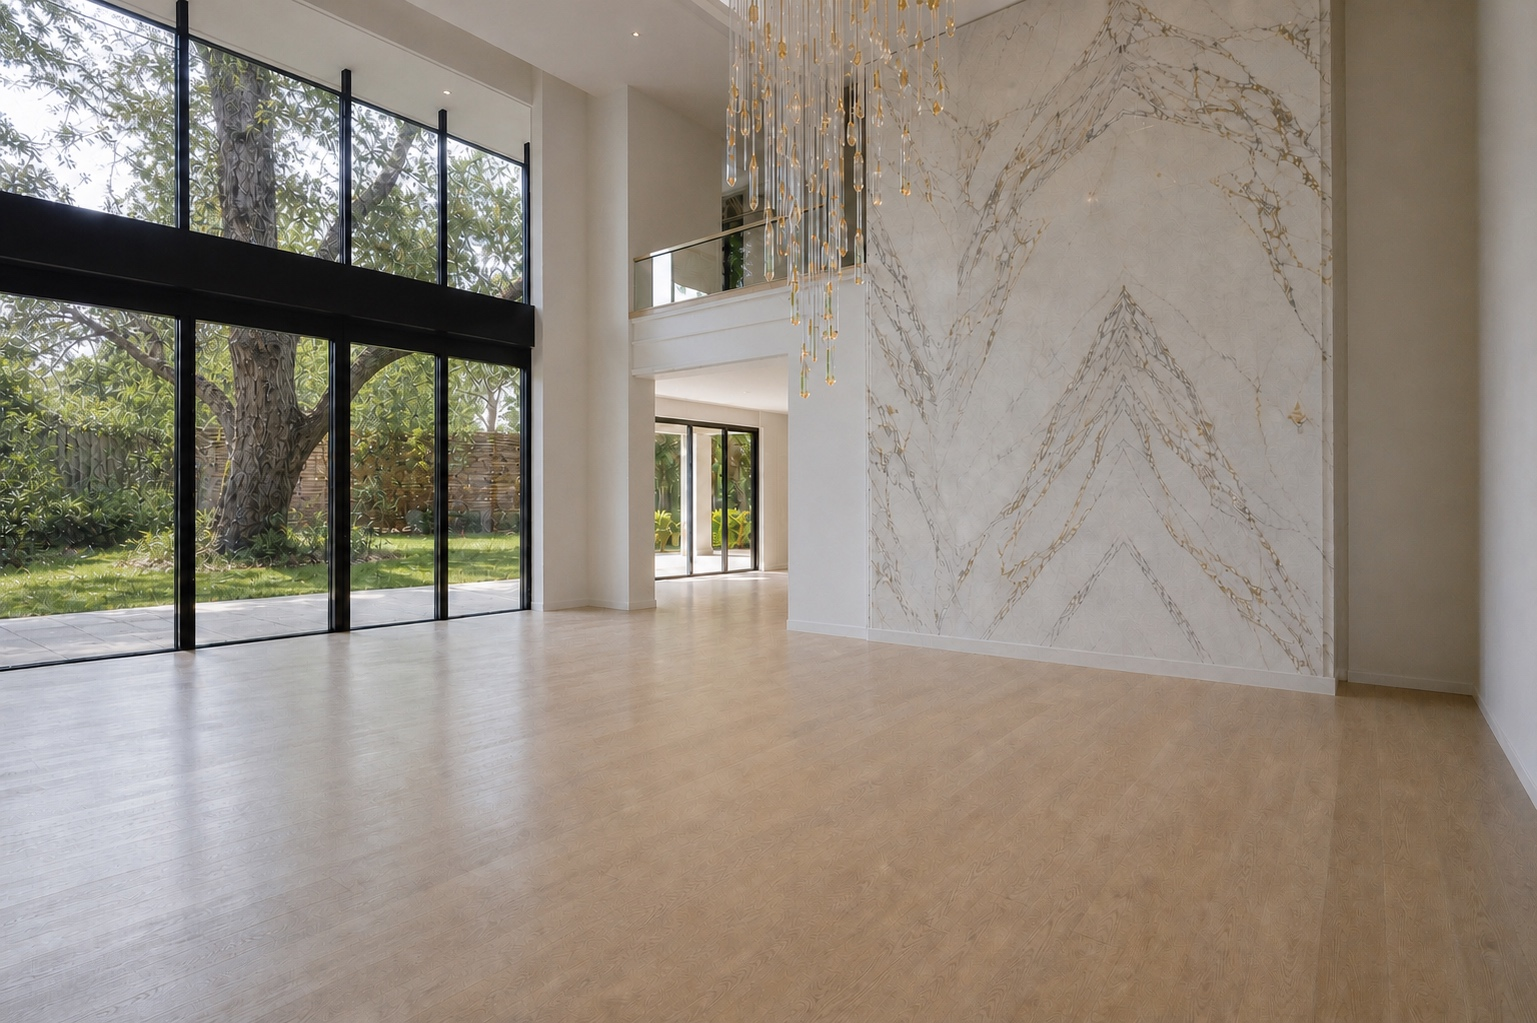
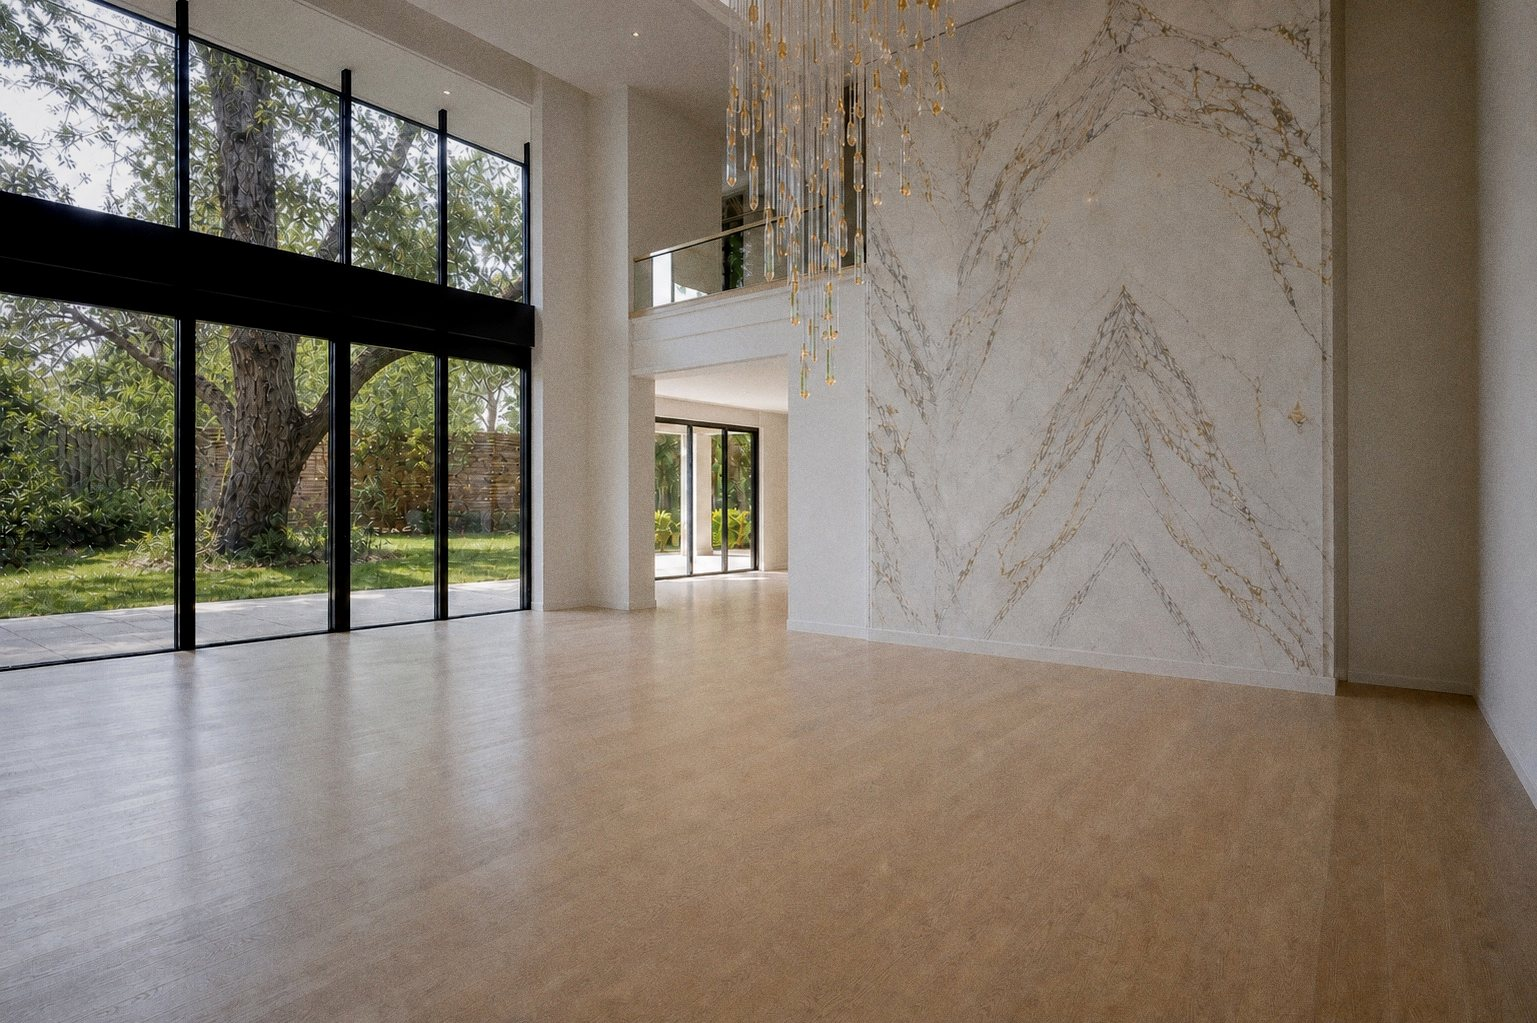
Enlarge bookmark rail (card backdrop, bigger dots/labels) and mobile jump chips; grade living-v3 pair

Changed region(s): [[0.0, 0.0, 1.0, 1.0], [0.2498, 0.3939, 0.2811, 0.4242]]

diff --git a/src/components/StyleGallery.tsx b/src/components/StyleGallery.tsx
@@ -84,10 +84,10 @@ export default function StyleGallery({ preview = false }: { preview?: boolean })
             <button
               key={g.id}
               onClick={() => jump(g.id)}
-              className={`whitespace-nowrap rounded-full border px-4 py-1.5 text-sm transition-colors ${
+              className={`whitespace-nowrap rounded-full border px-4.5 py-2 text-[15px] transition-colors ${
                 active === g.id
-                  ? 'border-brand bg-brand text-white'
-                  : 'border-ink/20 text-ink/70'
+                  ? 'border-brand bg-brand font-medium text-white'
+                  : 'border-ink/25 text-ink/70'
               }`}
             >
               {g.label}
@@ -96,31 +96,31 @@ export default function StyleGallery({ preview = false }: { preview?: boolean })
         </div>
       </div>
 
-      {/* 宽屏：左侧书签圆点导航（固定在屏幕左缘，dot + 房间名常显） */}
+      {/* 宽屏：左侧书签圆点导航（固定在屏幕左缘，衬底卡片 + 大号 dot + 房间名常显） */}
       <nav
         aria-label="Room bookmarks"
-        className="fixed left-6 top-1/2 z-40 hidden -translate-y-1/2 flex-col gap-3.5 min-[1400px]:flex"
+        className="fixed left-7 top-1/2 z-40 hidden -translate-y-1/2 flex-col gap-5 rounded-2xl border border-oak/15 bg-linen/90 px-5 py-6 shadow-lg backdrop-blur min-[1400px]:flex"
       >
         {groups.map((g) => (
           <button
             key={g.id}
             onClick={() => jump(g.id)}
-            className="group flex items-center gap-2.5"
+            className="group flex items-center gap-3.5"
           >
-            <span className="flex h-4 w-4 items-center justify-center">
+            <span className="flex h-5 w-5 items-center justify-center">
               <span
                 className={`rounded-full transition-all duration-300 ${
                   active === g.id
-                    ? 'h-3.5 w-3.5 bg-brand shadow'
-                    : 'h-2 w-2 bg-ink/25 group-hover:h-3 group-hover:w-3 group-hover:bg-ink/50'
+                    ? 'h-4.5 w-4.5 bg-brand shadow ring-4 ring-brand/20'
+                    : 'h-3 w-3 bg-ink/25 group-hover:h-4 group-hover:w-4 group-hover:bg-ink/50'
                 }`}
               />
             </span>
             <span
-              className={`whitespace-nowrap text-xs transition-colors ${
+              className={`whitespace-nowrap text-[15px] transition-colors ${
                 active === g.id
-                  ? 'font-medium text-brand-dark'
-                  : 'text-ink/45 group-hover:text-ink/75'
+                  ? 'font-semibold text-brand-dark'
+                  : 'text-ink/55 group-hover:text-ink/85'
               }`}
             >
               {g.label}
